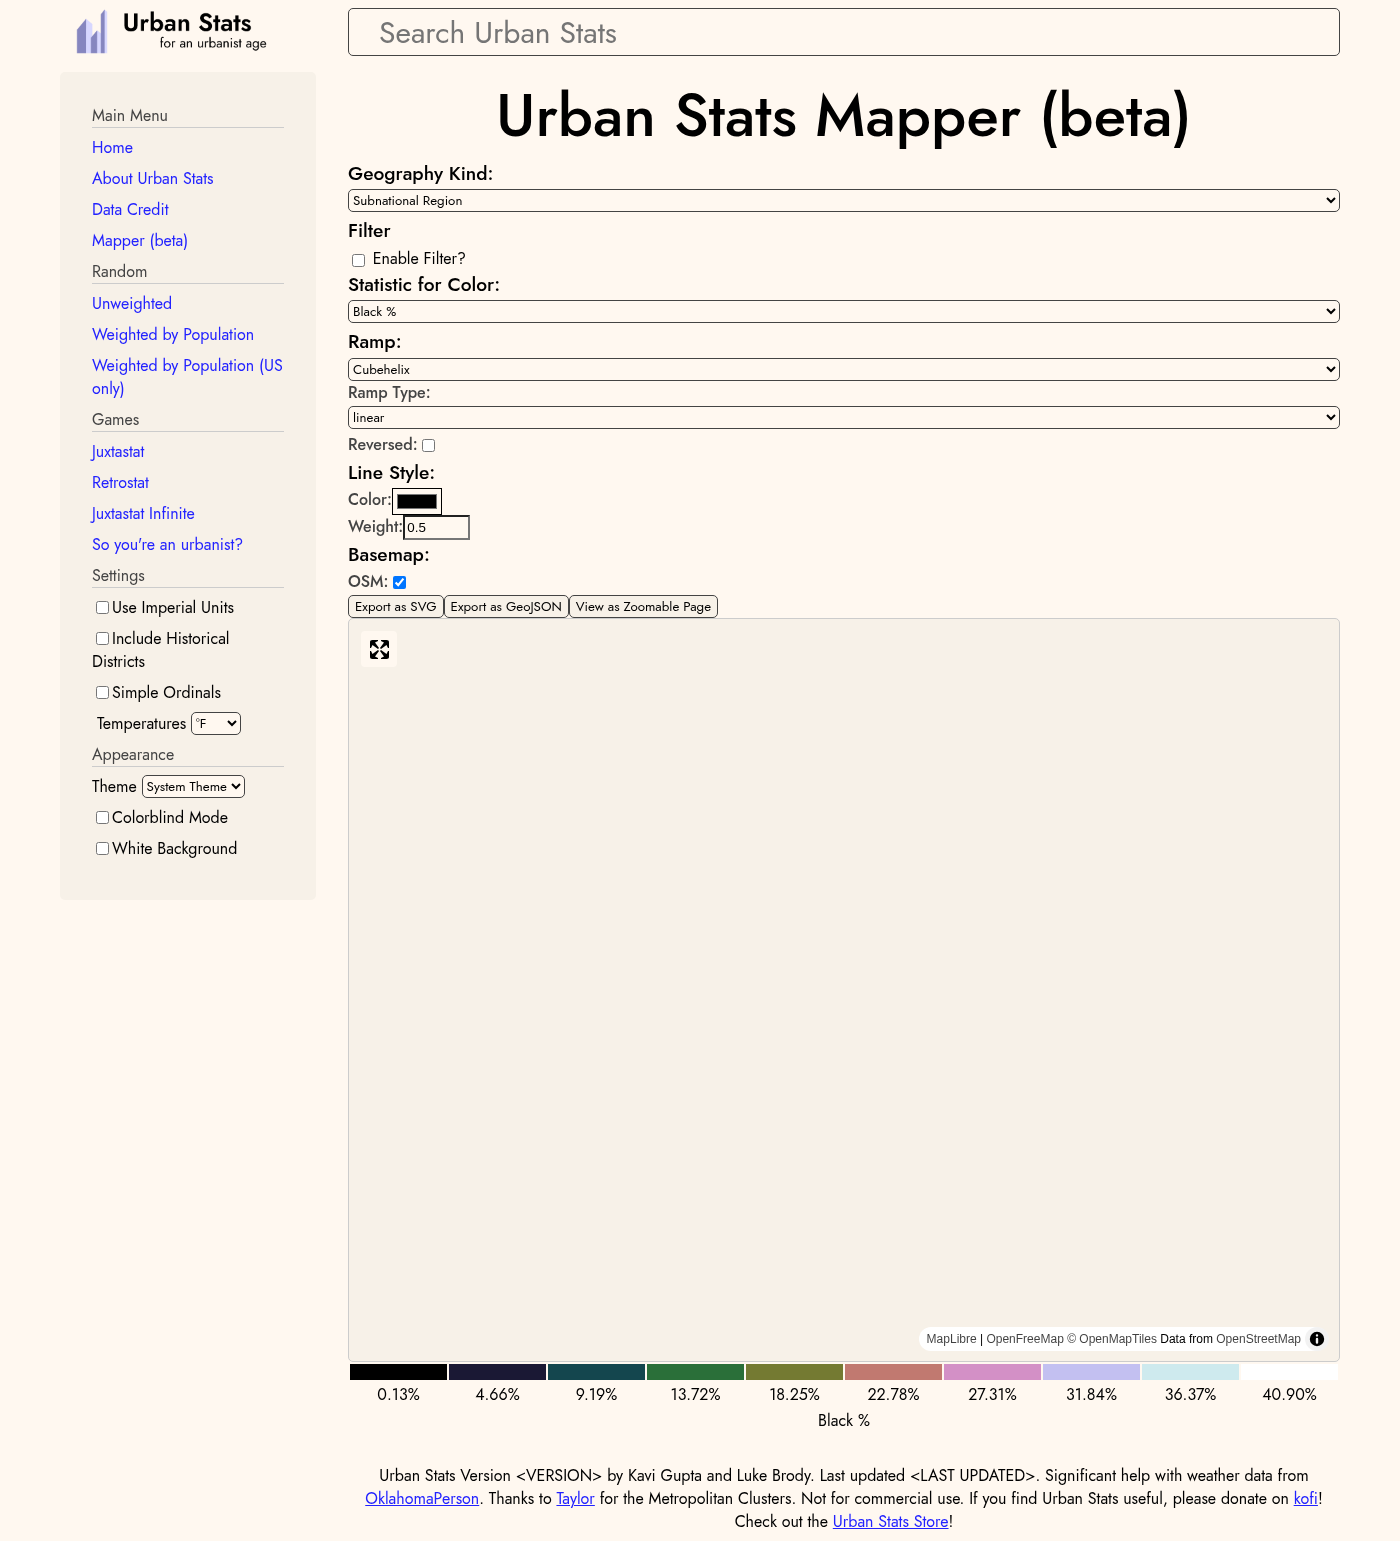
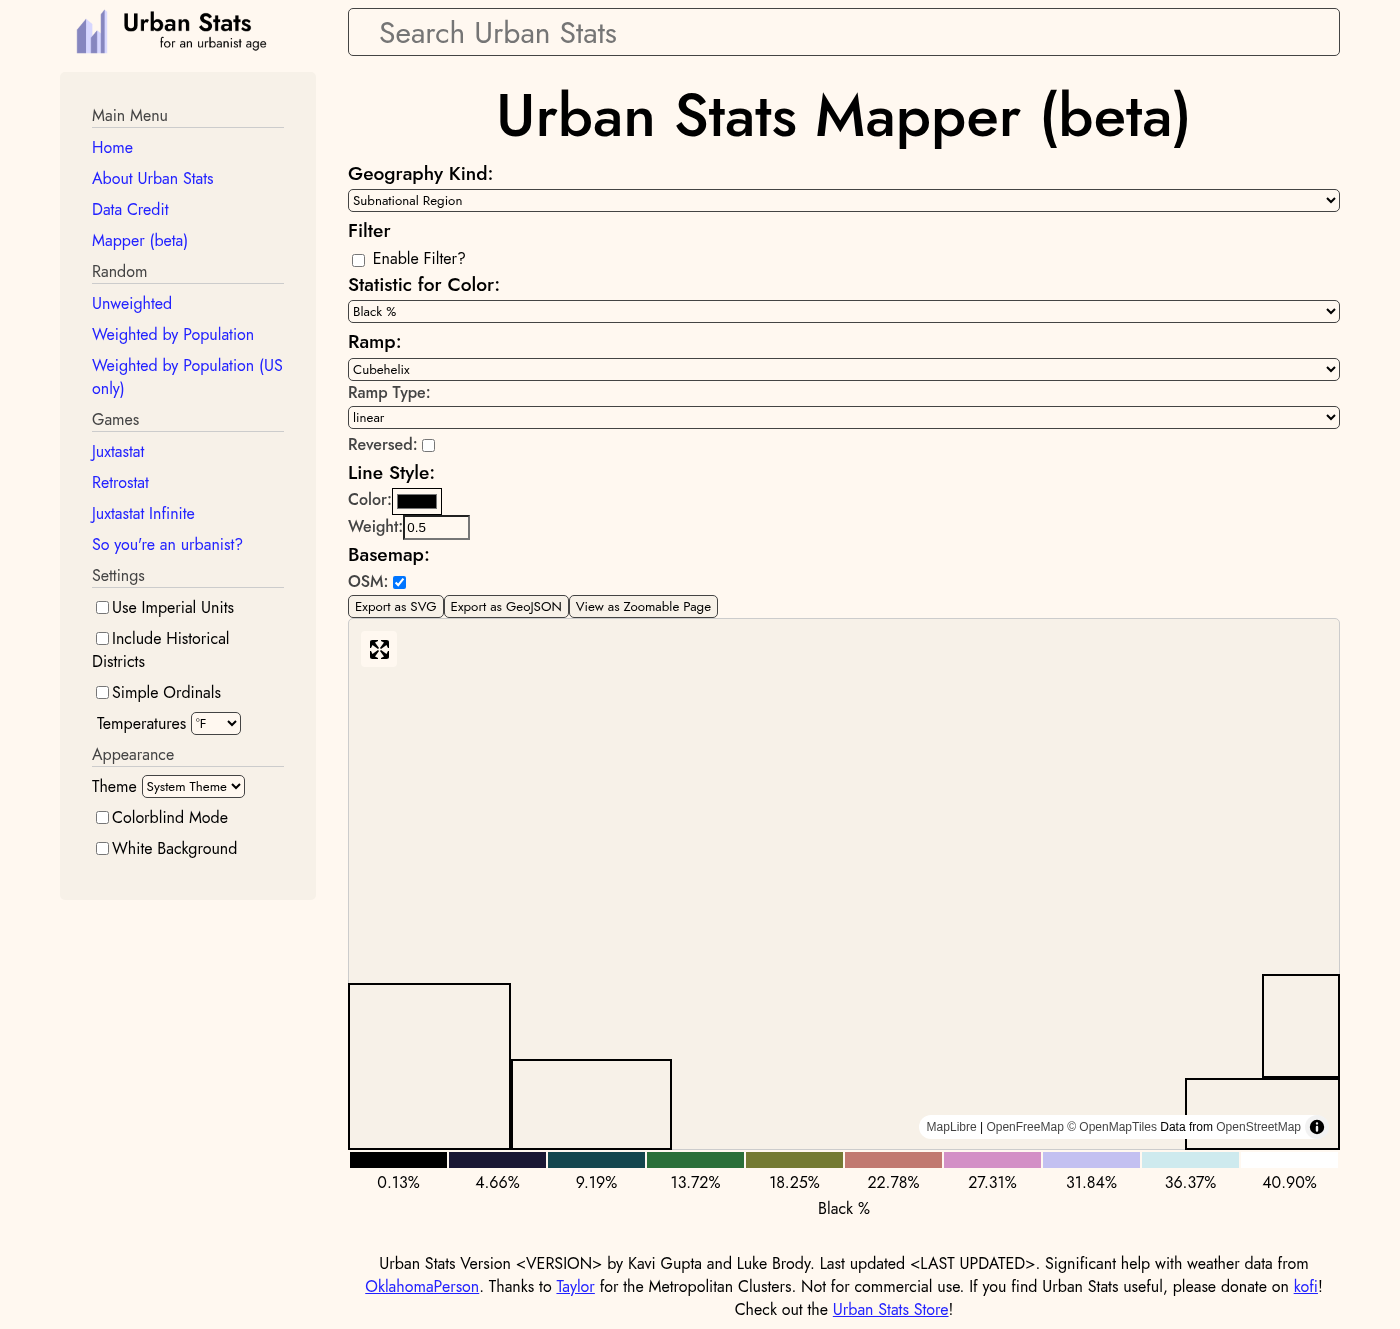
Use insets (#1265)

diff --git a/react/src/components/mapper-panel.tsx b/react/src/components/mapper-panel.tsx
@@ -6,6 +6,7 @@ import { gzipSync } from 'zlib'
 import maplibregl from 'maplibre-gl'
 import React, { ReactNode, useContext, useEffect, useRef, useState } from 'react'
 
+import insets from '../data/insets'
 import valid_geographies from '../data/mapper/used_geographies'
 import statNames from '../data/statistic_name_list'
 import universes_ordered from '../data/universes_ordered'
@@ -24,23 +25,9 @@ import { ConsolidatedShapes, ConsolidatedStatistics, Feature, IAllStats, IFeatur
 import { useHeaderTextClass } from '../utils/responsive'
 import { NormalizeProto } from '../utils/types'
 
-import type { Insets } from './map'
+import type { Inset, Insets } from './map'
 import { MapGeneric, MapGenericProps, Polygons, MapHeight } from './map'
 import { Statistic } from './table'
-
-export const usaInsets: Insets = [
-    {
-        bottomLeft: [0, 0],
-        topRight: [1, 1],
-        coordBox: new maplibregl.LngLatBounds(
-            [
-                [-124.7844079, 49.3457868],
-                [-66.9513812, 24.7433195],
-            ],
-        ),
-        mainMap: true,
-    },
-]
 
 interface DisplayedMapProps extends MapGenericProps {
     colorStat: ColorStat
@@ -236,12 +223,53 @@ interface MapComponentProps {
     mapRef: React.RefObject<DisplayedMap>
     lineStyle: LineStyle
     basemap: Basemap
-    height: MapHeight | undefined
 }
 
 interface EmpiricalRamp {
     ramp: Keypoints
     interpolations: number[]
+}
+
+// Web Mercator projection functions
+function lngToWebMercatorX(lng: number): number {
+    return lng * Math.PI / 180 * 6378137
+}
+
+function latToWebMercatorY(lat: number): number {
+    return 6378137 * Math.log(Math.tan(Math.PI / 4 + lat * Math.PI / 360))
+}
+
+function computeAspectRatio(coordBox: readonly [number, number, number, number]): number {
+    const [minLng, minLat, maxLng, maxLat] = coordBox
+
+    const x1 = lngToWebMercatorX(minLng)
+    const x2 = lngToWebMercatorX(maxLng)
+    const y1 = latToWebMercatorY(minLat)
+    const y2 = latToWebMercatorY(maxLat)
+
+    const width = Math.abs(x2 - x1)
+    const height = Math.abs(y2 - y1)
+
+    return width / height
+}
+
+function loadInset(universe: Universe): [Insets | undefined, number] {
+    const insetsU = insets[universe]
+    assert(insetsU.length > 0, `No insets for universe ${universe}`)
+    assert(insetsU[0].mainMap, `No main map for universe ${universe}`)
+    const aspectRatio = computeAspectRatio(insetsU[0].coordBox)
+    const insetsProc = insetsU.map((inset) => {
+        return {
+            bottomLeft: [inset.bottomLeft[0], inset.bottomLeft[1]],
+            topRight: [inset.topRight[0], inset.topRight[1]],
+            coordBox: new maplibregl.LngLatBounds(
+                [inset.coordBox[0], inset.coordBox[1]],
+                [inset.coordBox[2], inset.coordBox[3]],
+            ),
+            mainMap: inset.mainMap,
+        } satisfies Inset
+    })
+    return [insetsProc, aspectRatio]
 }
 
 function MapComponent(props: MapComponentProps): ReactNode {
@@ -250,6 +278,8 @@ function MapComponent(props: MapComponentProps): ReactNode {
     const filter = props.filter.enabled ? parseColorStat(nameToIndex, props.filter.function) : undefined
 
     const [empiricalRamp, setEmpiricalRamp] = useState<EmpiricalRamp | undefined>(undefined)
+
+    const [insetsU, aspectRatio] = loadInset(props.universe)
 
     return (
         <div style={{
@@ -270,10 +300,10 @@ function MapComponent(props: MapComponentProps): ReactNode {
                     ref={props.mapRef}
                     lineStyle={props.lineStyle}
                     basemap={props.basemap}
-                    height={props.height}
+                    height={{ type: 'aspect-ratio', value: aspectRatio }}
                     attribution="startVisible"
                     colors={colors}
-                    insets={usaInsets}
+                    insets={insetsU ?? undefined}
                 />
             </div>
             <div style={{ height: '8%', width: '100%' }}>
@@ -404,7 +434,6 @@ export function MapperPanel(props: { mapSettings: MapSettings, view: boolean }):
                         mapRef={mapRef}
                         lineStyle={mapSettings.line_style}
                         basemap={mapSettings.basemap}
-                        height={{ type: 'aspect-ratio', value: 4 / 3 }}
                     />
                 )
     }

diff --git a/react/src/page_template/template.tsx b/react/src/page_template/template.tsx
@@ -141,7 +141,7 @@ function TemplateFooter(): ReactNode {
 function Version(): ReactNode {
     return (
         <span id="current-version">
-            {TestUtils.shared.isTesting ? '<VERSION>' : '26.1.4'}
+            {TestUtils.shared.isTesting ? '<VERSION>' : '26.1.5'}
         </span>
     )
 }
